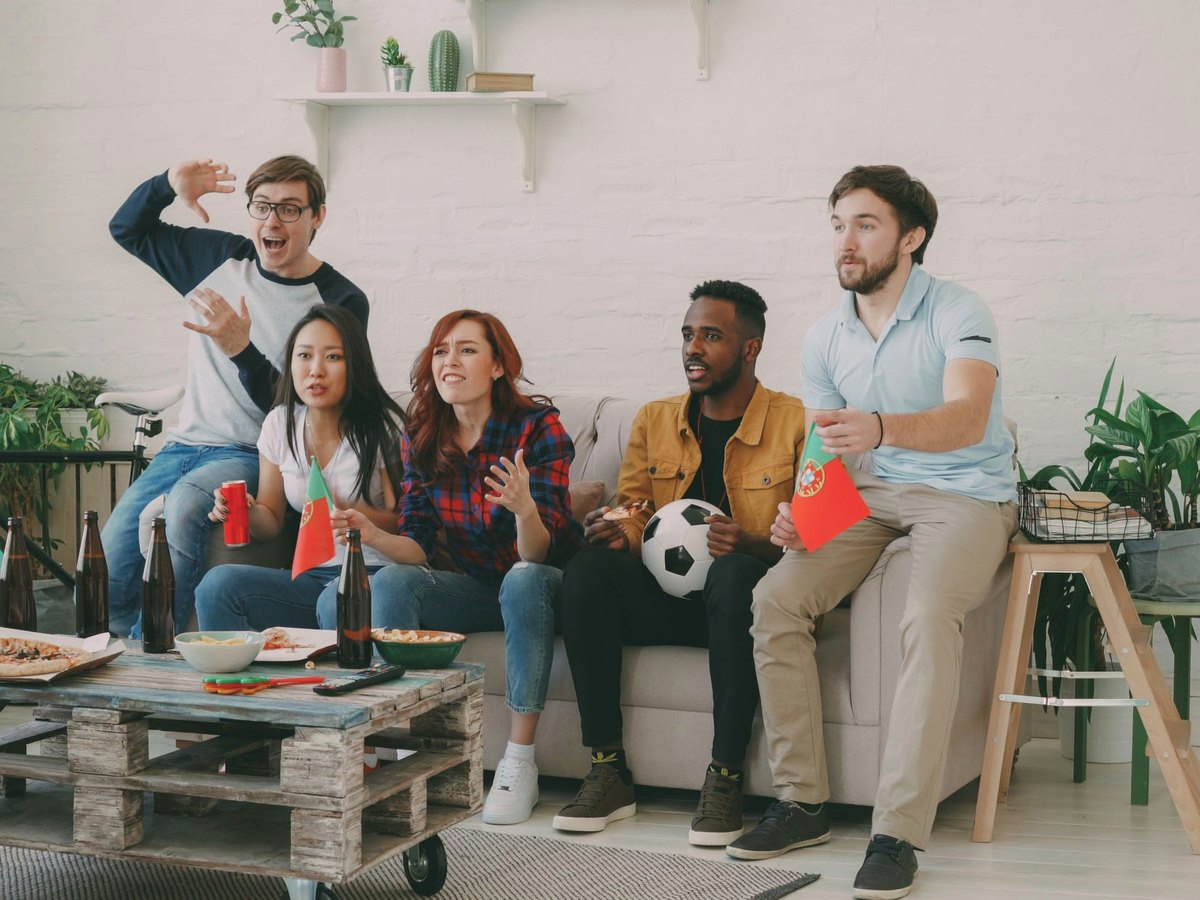
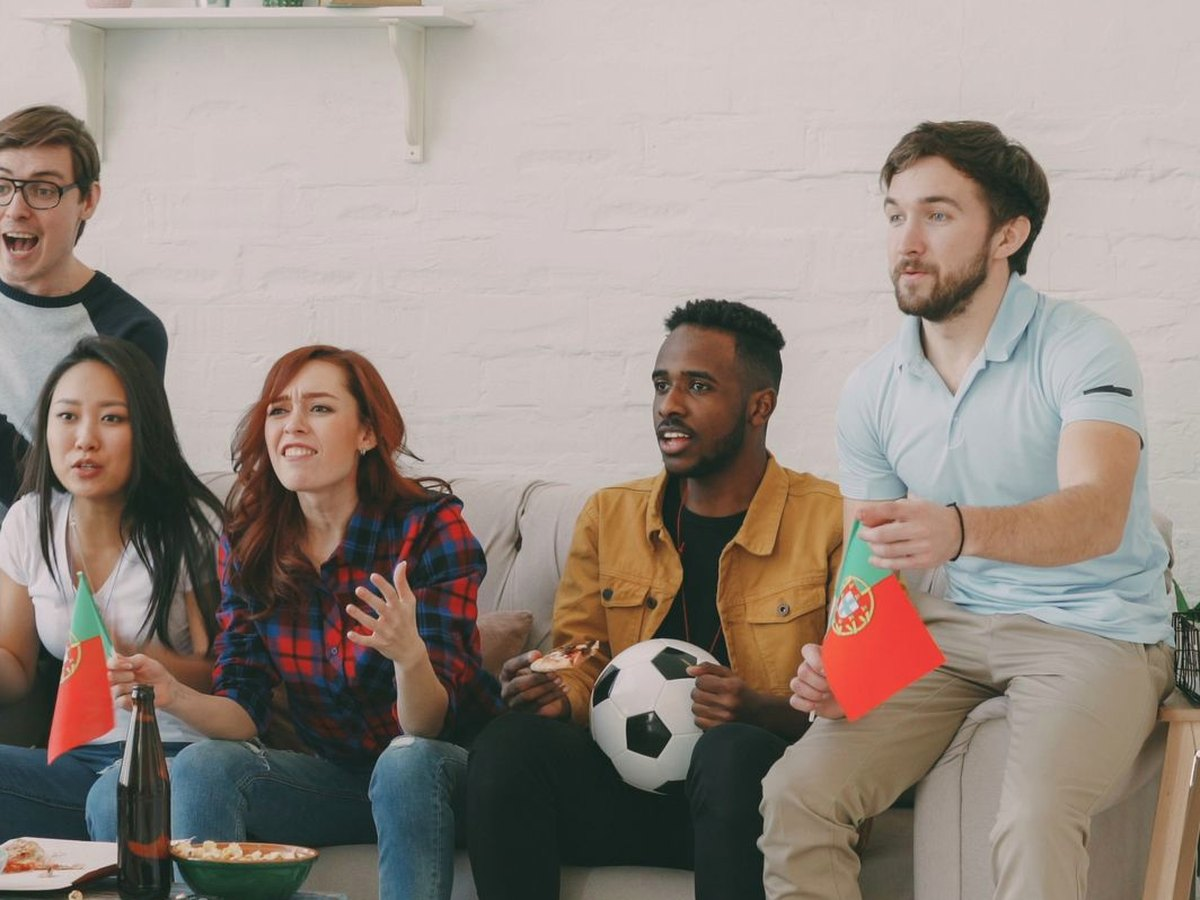
Static watch-party hero; Spotify stadium, cheering bar crowd, tighter home crop on setting cards

diff --git a/index.html b/index.html
@@ -62,12 +62,7 @@
 
   /* Hero — Luminous Presence artwork */
   .hero { position: relative; color: #fff; padding: 195px 0 140px; overflow: hidden; background: #0a1a15; }
-  .hero-art { position: absolute; inset: 0; background-size: cover; background-repeat: no-repeat; background-position: center 32%; opacity: 0; transition: opacity 1.6s ease; }
-  .hero-art.on { opacity: 1; }
-  .hero-art.slide-arena { background-image: url('assets/art/hero-arena.jpg'); }
-  .hero-art.slide-bar { background-image: url('assets/art/hero-bar.jpg'); }
-  .hero-art.slide-home { background-image: url('assets/art/hero-home.jpg'); background-position: center 15%; }
-  @media (prefers-reduced-motion: reduce) { .hero-art { transition: none; } }
+  .hero-art { position: absolute; inset: 0; background: url('assets/art/hero-photo.jpg') center 30% / cover no-repeat; }
   .hero-veil { position: absolute; inset: 0; background:
     linear-gradient(180deg, rgba(10,26,21,0) 55%, rgba(10,26,21,.88) 100%),
     linear-gradient(94deg, rgba(8,22,17,.94) 0%, rgba(8,22,17,.78) 38%, rgba(8,22,17,.32) 72%, rgba(8,22,17,.18) 100%),
@@ -343,9 +338,7 @@
 </nav>
 
 <header class="hero" id="top">
-  <div class="hero-art slide-arena on" aria-hidden="true"></div>
-  <div class="hero-art slide-bar" aria-hidden="true"></div>
-  <div class="hero-art slide-home" aria-hidden="true"></div>
+  <div class="hero-art" aria-hidden="true"></div>
   <div class="hero-veil" aria-hidden="true"></div>
   <div class="wrap">
     <div class="hero-copy">
@@ -729,19 +722,16 @@
     setTimeout(() => capEl.classList.add('on'), 120 + chars.length * 26 + 350);
   })();
 
-  // Hero rotation: arena → bar → home, with the matching place chip
-  // "checking in". With reduced motion the CSS fade is disabled, so the
-  // swap is an instant cut rather than an animation.
-  const slides = document.querySelectorAll('.hero-art');
+  // Place chips check in one after another — arena → bar → home.
   const chips = document.querySelectorAll('.place-chip');
-  function setPlace(i) {
-    slides.forEach((s, k) => s.classList.toggle('on', k === i));
-    chips.forEach((c, k) => c.classList.toggle('active', k === i));
-  }
-  if (slides.length > 1) {
+  if (chips.length) {
     let cur = 0;
-    setPlace(cur);
-    setInterval(() => { cur = (cur + 1) % slides.length; setPlace(cur); }, 6000);
+    chips[cur].classList.add('active');
+    setInterval(() => {
+      chips[cur].classList.remove('active');
+      cur = (cur + 1) % chips.length;
+      chips[cur].classList.add('active');
+    }, 4000);
   }
 
   const nav = document.getElementById('nav');